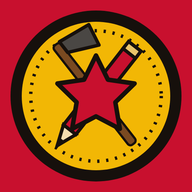
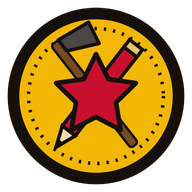
Ícones com transparência e manifesto igual ao do Caderno da Roça
Claude-Session: https://claude.ai/code/session_015QXzBPP4ZssFaPYthgcMZV

diff --git a/index.html b/index.html
@@ -6,9 +6,10 @@
 <meta name="theme-color" content="#c8102e">
 <meta name="description" content="Simulações de Ciências da Natureza e Matemática para o Enem, ligadas à educação do campo.">
 <link rel="manifest" href="manifest.json">
-<link rel="icon" href="icons/icon-192.png" type="image/png">
+<link rel="icon" type="image/png" sizes="192x192" href="icons/icon-192.png">
 <link rel="apple-touch-icon" href="icons/apple-touch-icon.png">
 <meta name="apple-mobile-web-app-capable" content="yes">
+<meta name="mobile-web-app-capable" content="yes">
 <meta name="apple-mobile-web-app-title" content="Campo Online">
 <title>Campo Online PJARA</title>
 <link rel="preconnect" href="https://fonts.googleapis.com"><link rel="preconnect" href="https://fonts.gstatic.com" crossorigin><link href="https://fonts.googleapis.com/css2?family=Anton&display=swap" rel="stylesheet">

diff --git a/sw.js b/sw.js
@@ -1,8 +1,8 @@
-const CACHE = 'campo-online-v3';
-const FILES = ['./', './index.html', './manifest.json', './icons/icon-192.png', './icons/icon-512.png', './icons/maskable-192.png', './icons/maskable-512.png', './icons/apple-touch-icon.png'];
+const CACHE = 'campo-online-v4';
+const FILES = ['./', './index.html', './manifest.json', './icons/icon-192.png', './icons/icon-512.png', './icons/maskable-512.png', './icons/apple-touch-icon.png'];
 
 self.addEventListener('install', e => {
-  e.waitUntil(caches.open(CACHE).then(c => c.addAll(FILES)).then(() => self.skipWaiting()));
+  e.waitUntil(caches.open(CACHE).then(c => c.addAll(FILES.map(u => new Request(u, {cache: 'reload'})))).then(() => self.skipWaiting()));
 });
 
 self.addEventListener('activate', e => {
